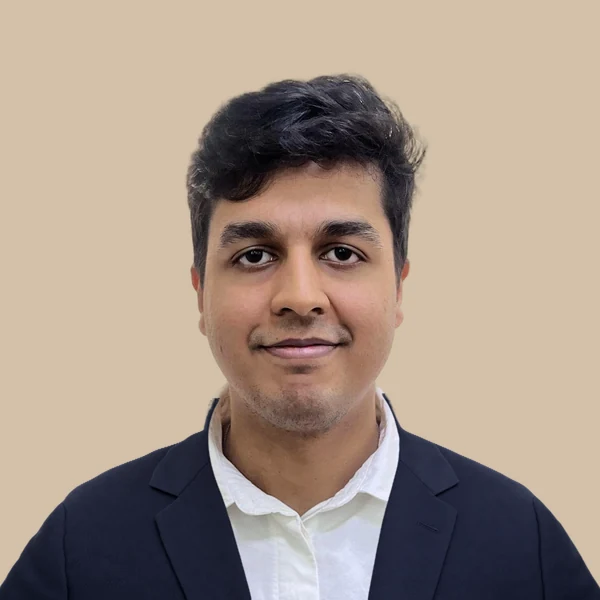
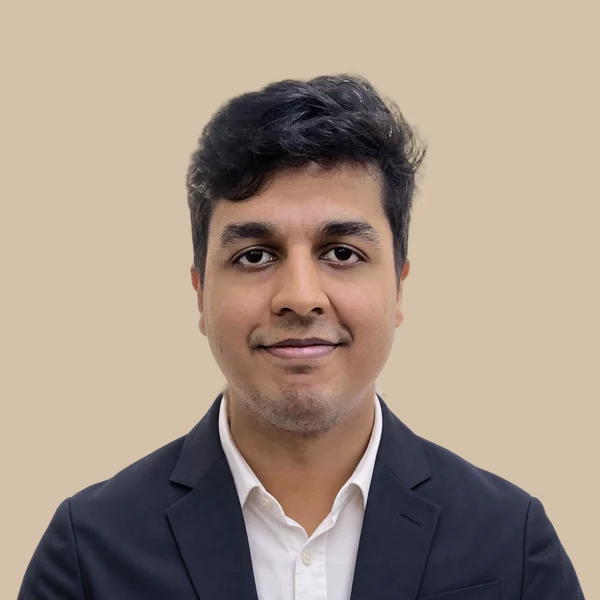
Match Siddarth and Ruhaan's suits to the team portraits

diff --git a/tools/team/photos.py b/tools/team/photos.py
@@ -37,7 +37,7 @@ CROPS = []
 TUNE = {"rahul-hingmire": (0.92, 0.0, 0.0),
         "sakshay-upadhyay": (1.12, 0.0, 0.0), "karan-shah": (1.08, 0.0, 0.0), "mehak-gupta": (0.78, 0.0, 0.0),
         "dhwani-joshi": (1.2089, -0.0282, 0.0029), "dale-galbano": (1.15, 0.0, 0.0), "sneha-lakra": (1.1, 0.0, 0.0),
-        "siddarth-menon": (1.08, 0.0, 0.0),
+        "siddarth-menon": (1.099, 0.0278, -0.0212),
         "s-robin": (1.0, -0.011, 0.001), "sandeep-agrawal": (1.055, 0.0, 0.012),
         "ruhaan-gupta": (1.0167, 0.0, -0.005)}
 # Where the chin/neck sits, as a share of the height below the crown, when the silhouette can't show it
